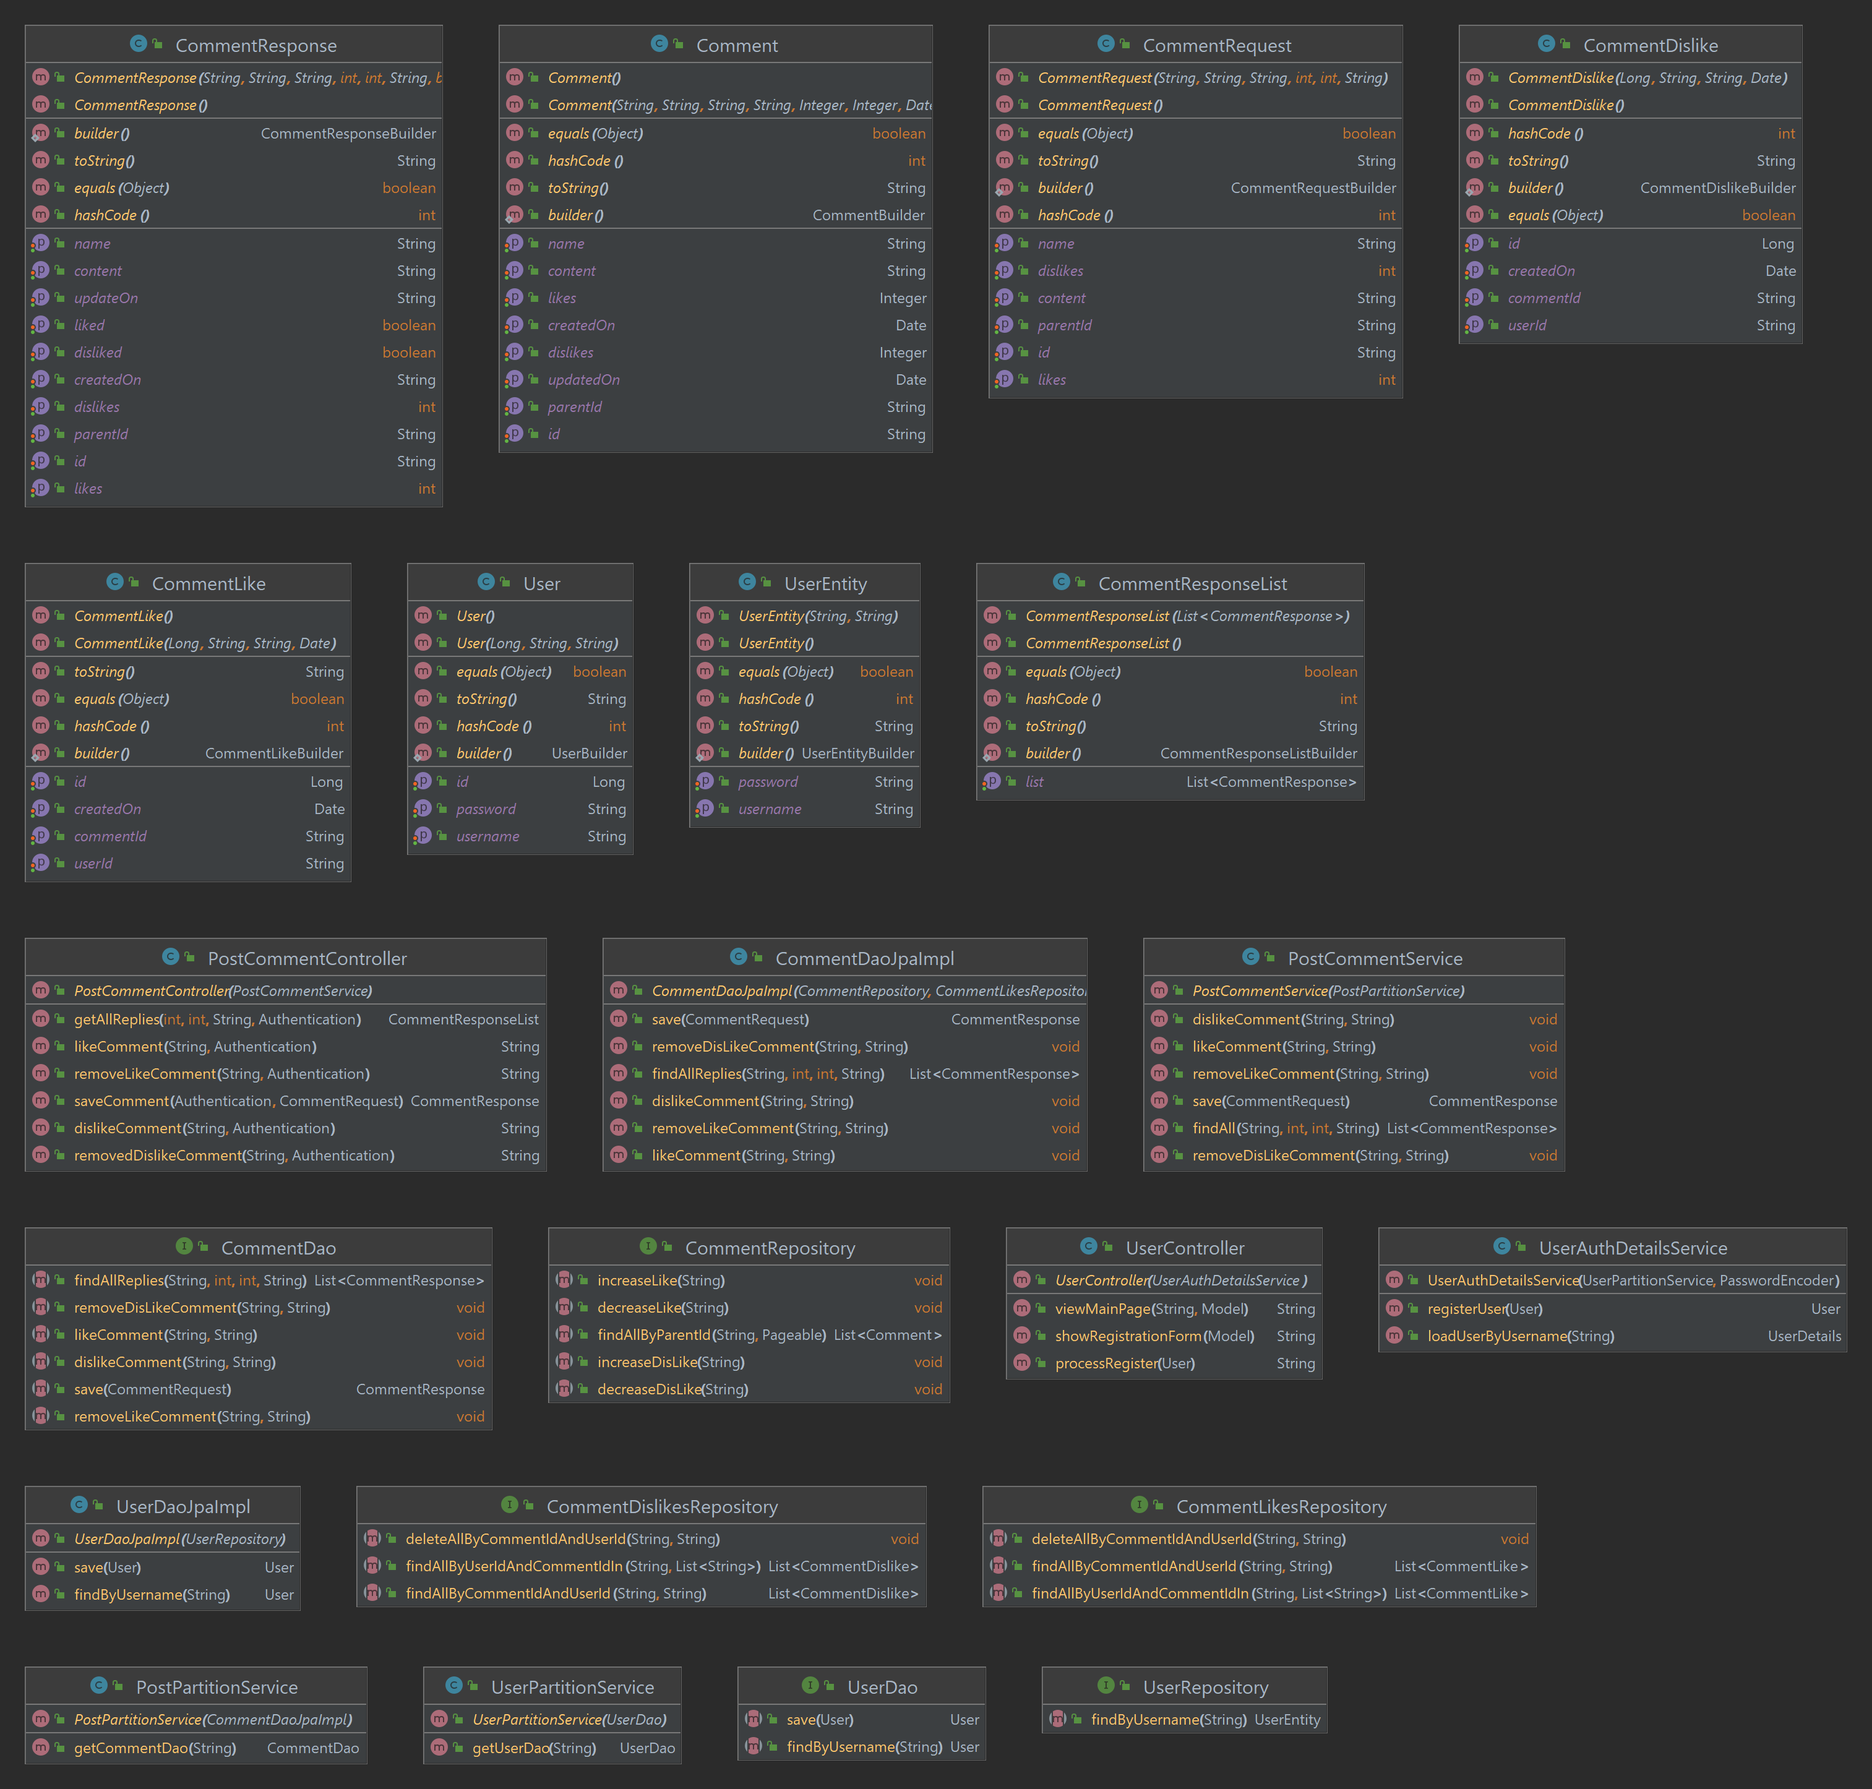
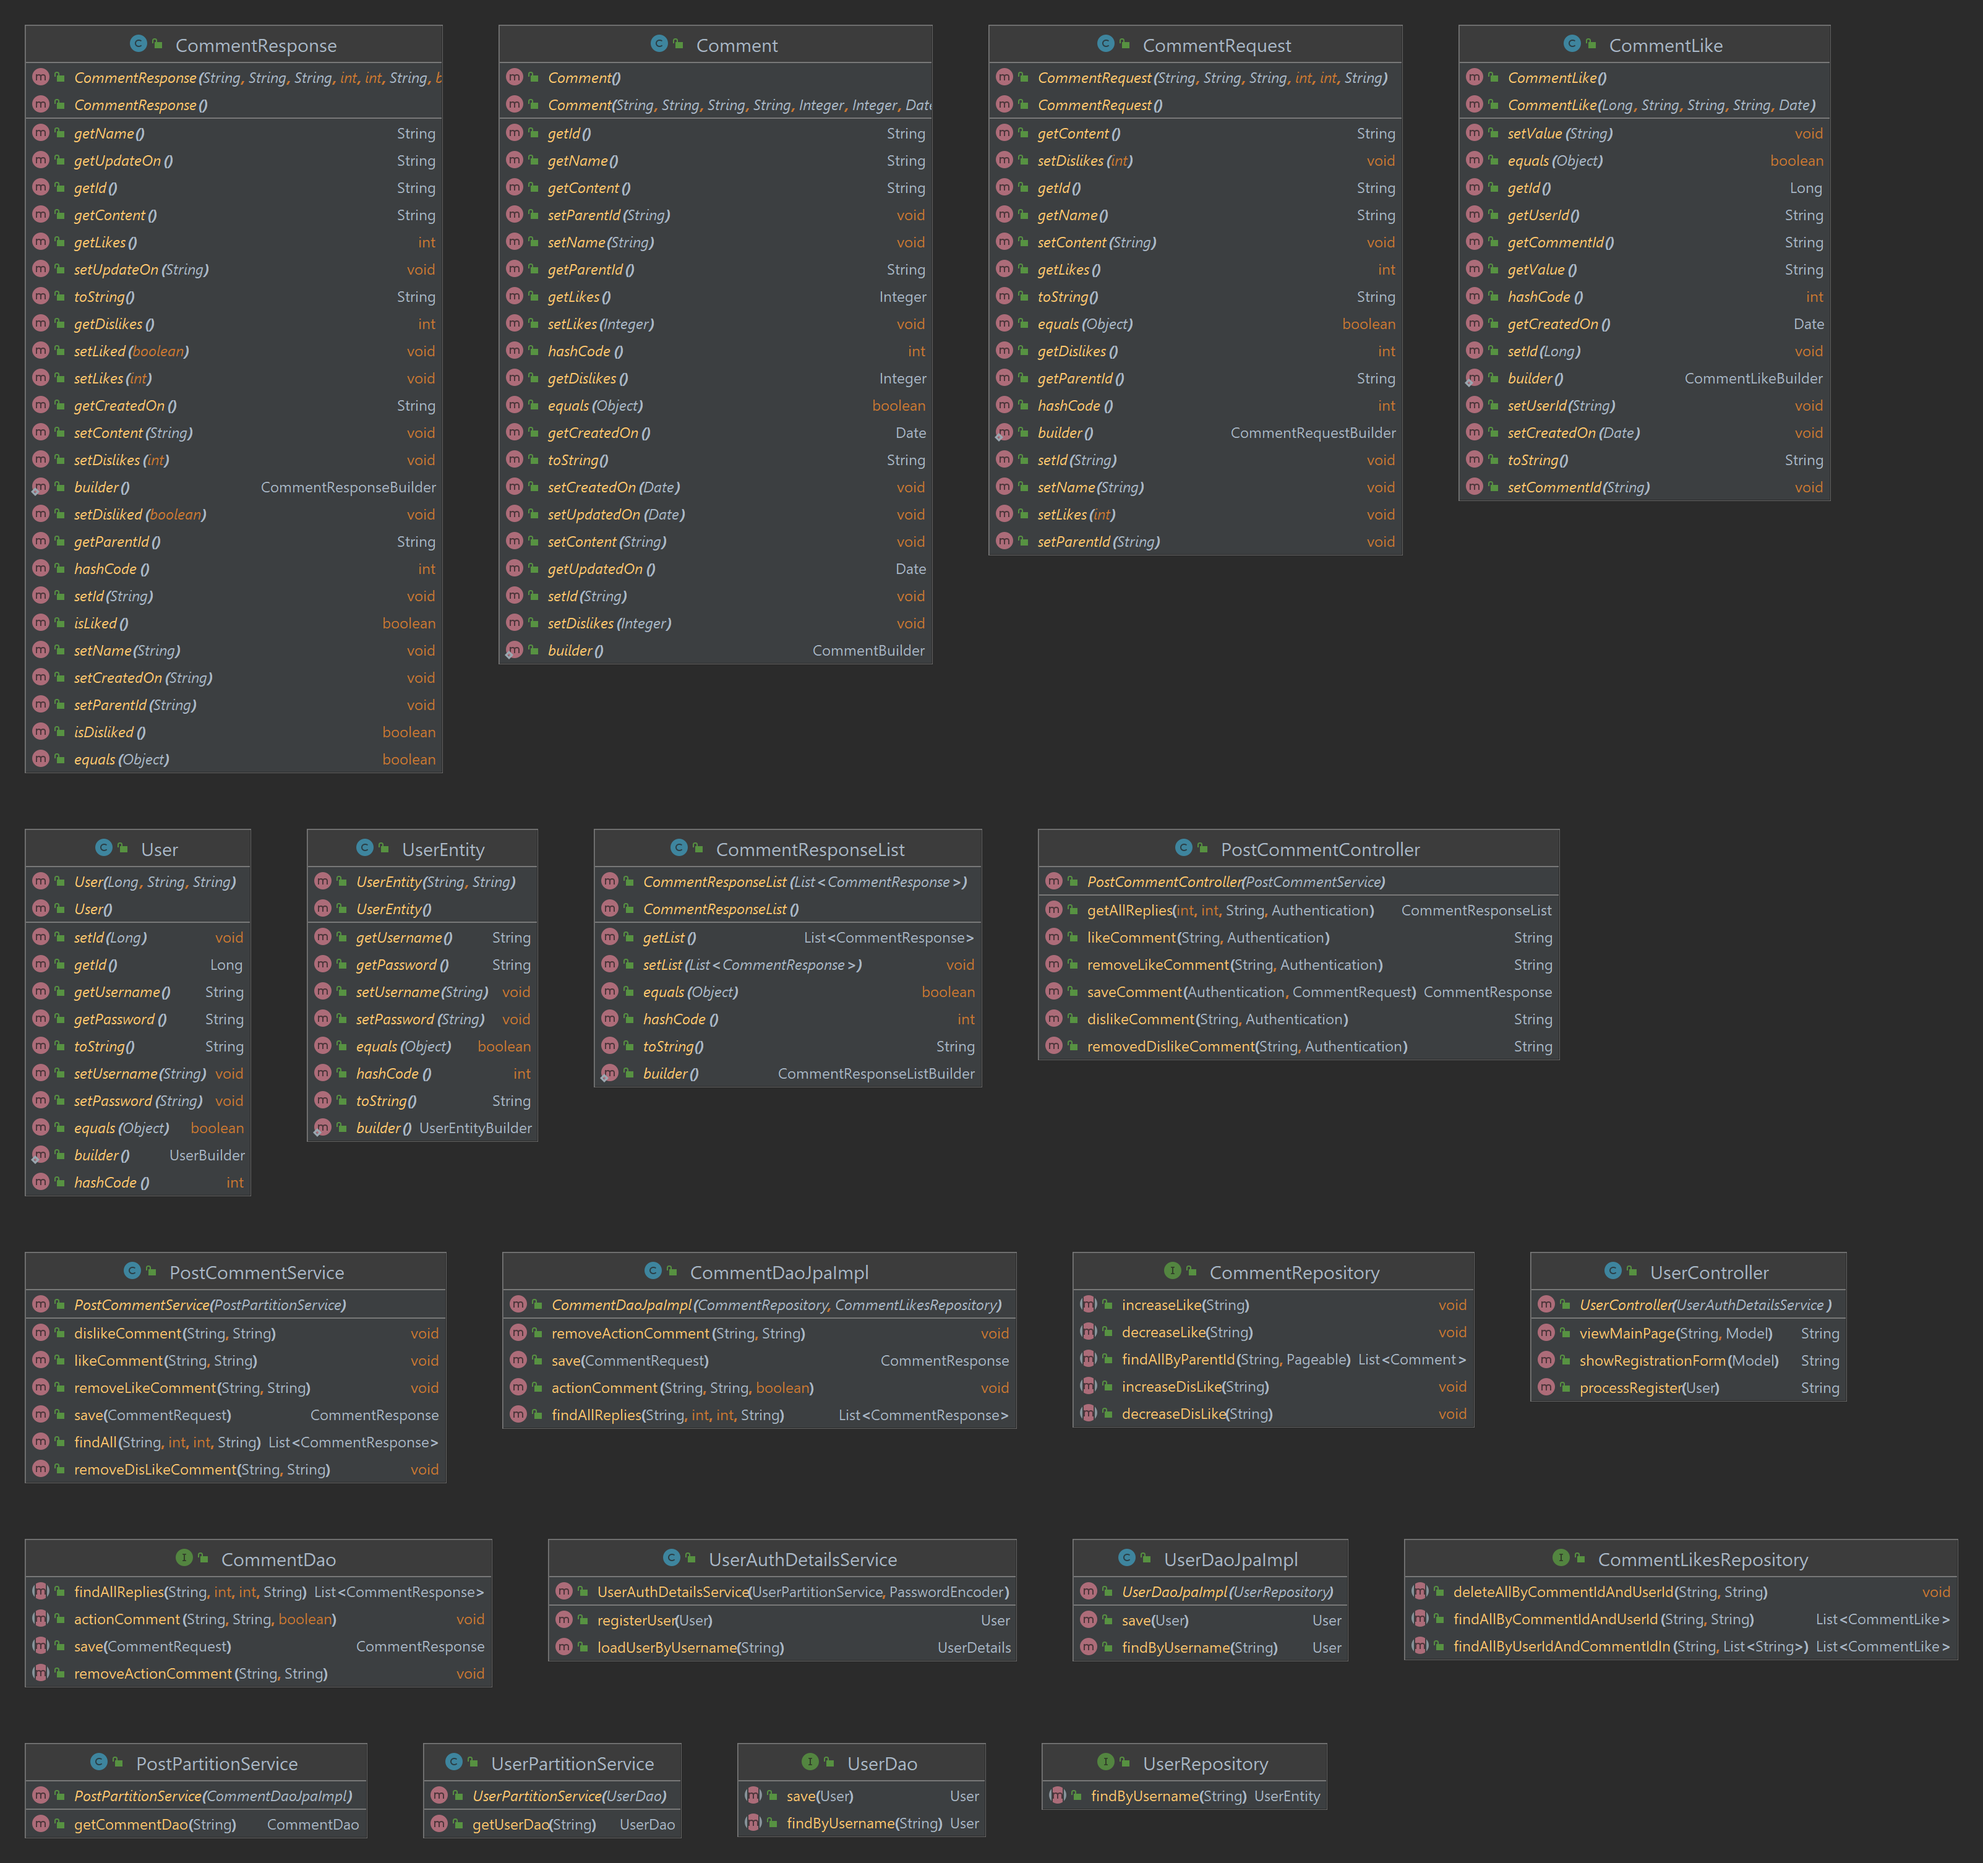
Update comment likes to one table

diff --git a/src/main/java/com/test/intuit/demo/dao/jpa/CommentDaoJpaImpl.java b/src/main/java/com/test/intuit/demo/dao/jpa/CommentDaoJpaImpl.java
@@ -2,11 +2,9 @@ package com.test.intuit.demo.dao.jpa;
 
 import com.test.intuit.demo.dao.CommentDao;
 import com.test.intuit.demo.dao.jpa.entity.Comment;
-import com.test.intuit.demo.dao.jpa.entity.CommentDislike;
 import com.test.intuit.demo.dao.jpa.entity.CommentLike;
 import com.test.intuit.demo.pojo.CommentRequest;
 import com.test.intuit.demo.pojo.CommentResponse;
-import com.test.intuit.demo.dao.jpa.repository.CommentDislikesRepository;
 import com.test.intuit.demo.dao.jpa.repository.CommentLikesRepository;
 import com.test.intuit.demo.dao.jpa.repository.CommentRepository;
 import lombok.RequiredArgsConstructor;
@@ -28,28 +26,33 @@ public class CommentDaoJpaImpl implements CommentDao {
 
     private final CommentLikesRepository commentLikesRepository;
 
-    private final CommentDislikesRepository commentDislikesRepository;
 
     private List<CommentResponse> computeCommentResponses(List<Comment> comments, String userId) {
         List<String> commentIds = comments.stream().map(Comment::getId).collect(Collectors.toList());
-        List<String> commentLikes = commentLikesRepository.findAllByUserIdAndCommentIdIn(userId, commentIds)
-                .stream().map(CommentLike::getCommentId).collect(Collectors.toList());
-        List<String> commentDislikes = commentDislikesRepository.findAllByUserIdAndCommentIdIn(userId, commentIds)
-                .stream().map(CommentDislike::getCommentId).collect(Collectors.toList());
-        Set<String> likedCommentIdSet = new HashSet<>(commentLikes);
-        Set<String> dislikedCommentIdSet = new HashSet<>(commentDislikes);
-        return comments.stream().map(comment -> CommentResponse.builder()
-                .content(comment.getContent())
-                .name(comment.getName())
-                .parentId(comment.getParentId())
-                .id(comment.getId())
-                .likes(comment.getLikes())
-                .dislikes(comment.getDislikes())
-                .updateOn(comment.getUpdatedOn().toString())
-                .createdOn(comment.getCreatedOn().toString())
-                .liked(likedCommentIdSet.contains(comment.getId()))
-                .disliked(dislikedCommentIdSet.contains(comment.getId()))
-                .build()).collect(Collectors.toList());
+        List<CommentLike> commentLikes = commentLikesRepository.findAllByUserIdAndCommentIdIn(userId, commentIds);
+        HashMap<String, CommentLike> likedCommentMap = new HashMap<>();
+        commentLikes.forEach(commentLike -> likedCommentMap.put(commentLike.getCommentId(), commentLike));
+        return comments.stream().map(comment -> {
+            boolean liked = false;
+            boolean disliked = false;
+            if (likedCommentMap.containsKey(comment.getId())) {
+                boolean value = Boolean.parseBoolean(likedCommentMap.get(comment.getId()).getValue());
+                liked = value;
+                disliked = !value;
+            }
+            return CommentResponse.builder()
+                    .content(comment.getContent())
+                    .name(comment.getName())
+                    .parentId(comment.getParentId())
+                    .id(comment.getId())
+                    .likes(comment.getLikes())
+                    .dislikes(comment.getDislikes())
+                    .updateOn(comment.getUpdatedOn().toString())
+                    .createdOn(comment.getCreatedOn().toString())
+                    .liked(liked)
+                    .disliked(disliked)
+                    .build();
+        }).collect(Collectors.toList());
     }
 
     @Override
@@ -64,7 +67,7 @@ public class CommentDaoJpaImpl implements CommentDao {
 
     @Transactional
     @Override
-    public void likeComment(String commentId, String userId) {
+    public void actionComment(String commentId, String userId, boolean value) {
         if (!commentLikesRepository.findAllByCommentIdAndUserId(commentId, userId).isEmpty()) {
             return;
         }
@@ -72,40 +75,18 @@ public class CommentDaoJpaImpl implements CommentDao {
         commentLikesRepository.save(CommentLike.builder()
                 .commentId(commentId)
                 .userId(userId)
+                .value(String.valueOf(value))
                 .build());
     }
 
     @Transactional
     @Override
-    public void removeLikeComment(String commentId, String userId) {
+    public void removeActionComment(String commentId, String userId) {
         if (commentLikesRepository.findAllByCommentIdAndUserId(commentId, userId).isEmpty()) {
             return;
         }
         commentRepository.decreaseLike(commentId);
         commentLikesRepository.deleteAllByCommentIdAndUserId(commentId, userId);
-    }
-
-    @Transactional
-    @Override
-    public void dislikeComment(String commentId, String userId) {
-        if (!commentDislikesRepository.findAllByCommentIdAndUserId(commentId, userId).isEmpty()) {
-            return;
-        }
-        commentRepository.increaseDisLike(commentId);
-        commentDislikesRepository.save(CommentDislike.builder()
-                .commentId(commentId)
-                .userId(userId)
-                .build());
-    }
-
-    @Transactional
-    @Override
-    public void removeDisLikeComment(String commentId, String userId) {
-        if (commentDislikesRepository.findAllByCommentIdAndUserId(commentId, userId).isEmpty()) {
-            return;
-        }
-        commentRepository.decreaseDisLike(commentId);
-        commentDislikesRepository.deleteAllByCommentIdAndUserId(commentId, userId);
     }
 
     private CommentResponse convertEntityToResponse(Comment comment) {

diff --git a/src/main/java/com/test/intuit/demo/service/PostCommentService.java b/src/main/java/com/test/intuit/demo/service/PostCommentService.java
@@ -25,19 +25,19 @@ public class PostCommentService {
     }
 
     public void likeComment(String  commentId, String username) {
-        postPartitionService.getCommentDao(commentId).likeComment(commentId, username);
+        postPartitionService.getCommentDao(commentId).actionComment(commentId, username, true);
     }
 
     public void removeLikeComment(String  commentId, String username) {
-        postPartitionService.getCommentDao(commentId).removeLikeComment(commentId, username);
+        postPartitionService.getCommentDao(commentId).removeActionComment(commentId, username);
     }
 
     public void dislikeComment(String  commentId, String username) {
-        postPartitionService.getCommentDao(commentId).dislikeComment(commentId, username);
+        postPartitionService.getCommentDao(commentId).actionComment(commentId, username, false);
 
     }
 
     public void removeDisLikeComment(String  commentId, String username) {
-        postPartitionService.getCommentDao(commentId).removeDisLikeComment(commentId, username);
+        postPartitionService.getCommentDao(commentId).removeActionComment(commentId, username);
     }
 }

diff --git a/src/main/java/com/test/intuit/demo/dao/CommentDao.java b/src/main/java/com/test/intuit/demo/dao/CommentDao.java
@@ -12,11 +12,7 @@ public interface CommentDao {
 
     CommentResponse save(CommentRequest commentRequest);
 
-    void likeComment(String commentId, String userId);
+    void actionComment(String commentId, String userId, boolean action);
 
-    void removeLikeComment(String commentId, String userId);
-
-    void dislikeComment(String commentId, String userId);
-
-    void removeDisLikeComment(String commentId, String userId);
+    void removeActionComment(String commentId, String userId);
 }

diff --git a/src/main/java/com/test/intuit/demo/dao/jpa/entity/CommentLike.java b/src/main/java/com/test/intuit/demo/dao/jpa/entity/CommentLike.java
@@ -26,6 +26,9 @@ public class CommentLike {
 
     @Column(name = "comment_id")
     private String commentId;
+
+    @Column(name = "value")
+    private String value;
     @Column(name = "created_on")
     private Date createdOn;
 

diff --git a/README.md b/README.md
@@ -20,7 +20,7 @@ Refer the [Help Documentation](./HELP.md) to set up the service and run it
  - For demo purpose horizontal partition mechanism binds to only 1 data source
  - This setup doesn't include load balancer or server cluster setup which is important for production level
  - No Instrumentation or alert mechanisms which are required at production level
- - A post can have both like and dislike by a user
+ - A post can not have both like and dislike by a user
 
 We would explain with layered architecture to show our services design
 
